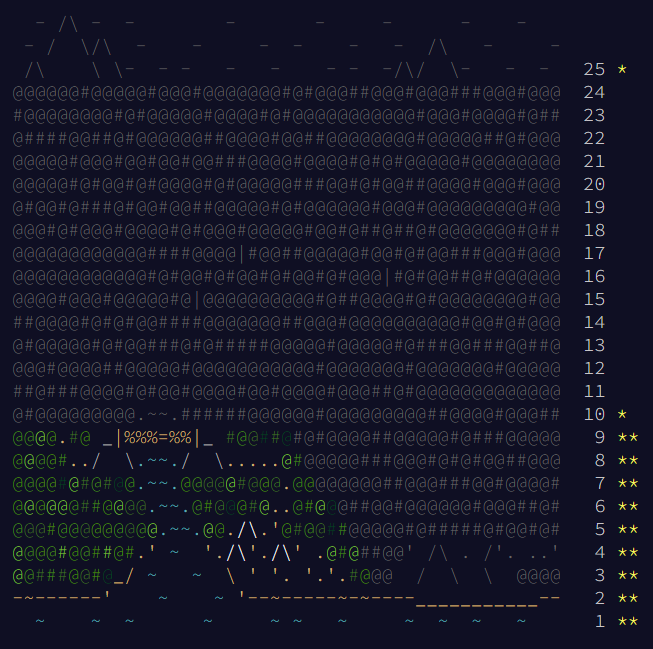
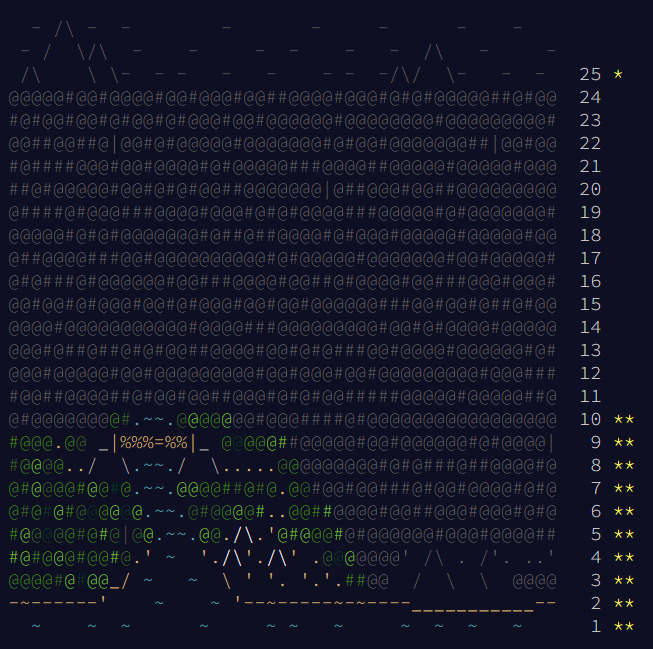
Day 10 - Update stars

diff --git a/README.md b/README.md
@@ -15,10 +15,10 @@ Time did not allow me to compete on all the days.
 * [Day 7: No Space Left On Device](https://adventofcode.com/2022/day/7) :star: :star:
 * [Day 8: Treetop Tree House](https://adventofcode.com/2022/day/8) :star: :star:
 * [Day 9: Rope Bridge](https://adventofcode.com/2022/day/9) :star: :star:
-* [Day 10: Cathode-Ray Tube](https://adventofcode.com/2022/day/10) :star:
+* [Day 10: Cathode-Ray Tube](https://adventofcode.com/2022/day/10) :star: :star:
 * [Day 25: Full of Hot Air](https://adventofcode.com/2022/day/25) :star:
 
-20 :star:
+21 :star:
 
 ![](Stars.png)
 
